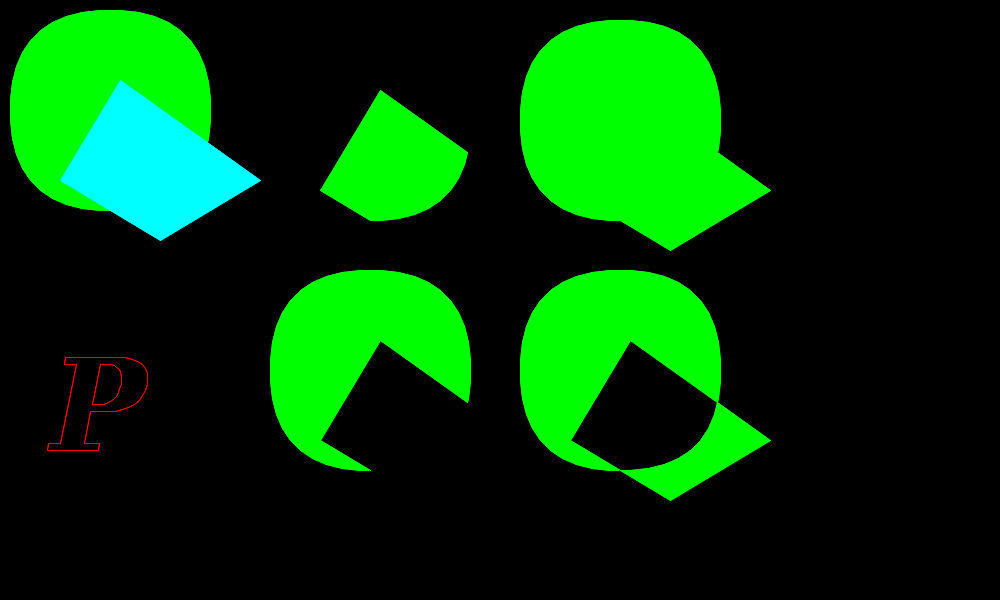
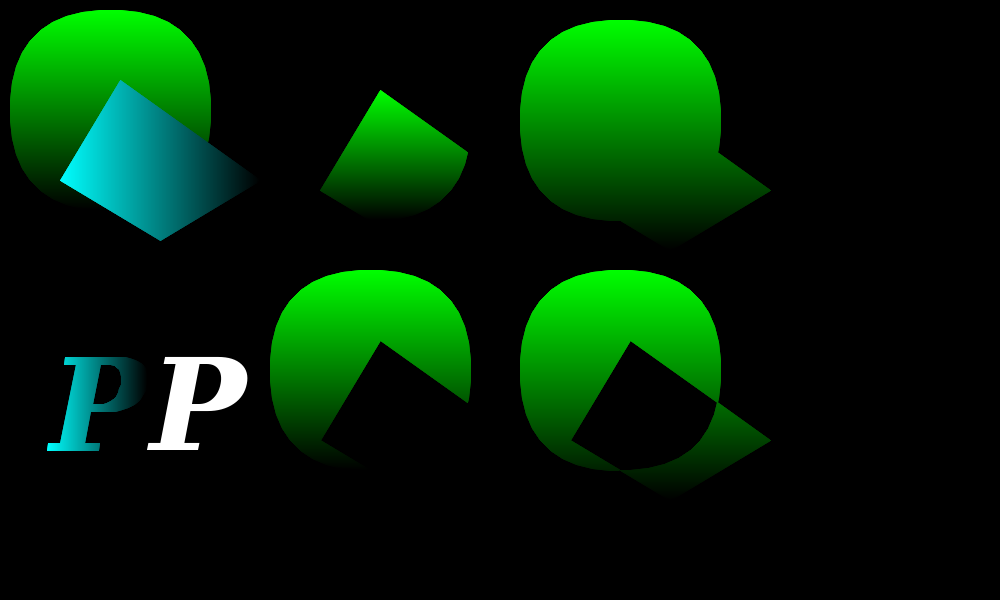
Adding support for character in Gfx::Path - Done

diff --git a/src/Pt-Gfx/tests/ImagePainterTest2_Draw_Path.cpp b/src/Pt-Gfx/tests/ImagePainterTest2_Draw_Path.cpp
@@ -363,7 +363,7 @@ static void testDrawPathClipping(const char* title, Image& image, Painter& paint
     ip2->setBrush(brush1);
     ip2->fillPolygon(clipPointsF.data(), clipPointsF.size());
 
-    // Character outline
+    // Character in path
     row = 4;
     col = 0;
 
@@ -380,14 +380,12 @@ static void testDrawPathClipping(const char* title, Image& image, Painter& paint
     atrans.translate(50 + 100 * col, 50 + 100 * row);
     atrans.transformPoints(subjPointsF.data(), subjPointsF.size());
     atrans.pop();
-
-    ip2->setPen(Color::fromRgb8(255,0,0));
     ip2->setBrush(brush2);
-    ip2->drawPolyline(subjPointsF.data(), subjPointsF.size(), true);
+    ip2->fillPolygon(subjPointsF.data(), subjPointsF.size());
 
-    //ip2->setFont( Pt::Gfx::Font(FONT_SPEC_H) );
-    //ip2->setPen( Color::fromRgb8(0, 255, 255, 255) );
-    //ip2->drawText( PointF(10 + 250 * col, 10 + 250 * row), "P" );
+    ip2->setFont( Pt::Gfx::Font(FONT_SPEC_H) );
+    ip2->setPen( Color::fromRgb8(255, 255, 255, 255) );
+    ip2->drawText( PointF(50 + 100 * col + 100, 50 + 100 * row), "P" );
 
     sdlPreviewRGB888Buffer(title, image.data(), image.width(), image.height(), !!ip2);
 }

diff --git a/src/Pt-Gfx/tests/ImagePainterTest2.cpp b/src/Pt-Gfx/tests/ImagePainterTest2.cpp
@@ -527,12 +527,12 @@ int main(int argc, char* args[])
     // Path clipping
     if((!DO_BENCHMARKING || !BENCHMARK_RESULT_HTML) && DO_TEST_DRAW && TEST_SOURCECOPY && TEST_DRAW_PATH_CLIPPING) {
         painter2->setCompositionMode(CompositionMode::SourceCopy);
-        testDrawPathClipping("Path Clipping - ImagePainter2 [SourceCopy]", image, *painter2, brushSolid1, brushSolid2);
+        testDrawPathClipping("Path Clipping - ImagePainter2 [SourceCopy]", image, *painter2, brushGradient1, brushGradient2);
     }
 
     if((!DO_BENCHMARKING || !BENCHMARK_RESULT_HTML) && DO_TEST_DRAW && TEST_SOURCEOVER && TEST_DRAW_PATH_CLIPPING) {
         painter2->setCompositionMode(CompositionMode::SourceOver);
-        testDrawPathClipping("Path Clipping - ImagePainter2 [SourceOver]", image, *painter2, brushSolid1, brushSolid2);
+        testDrawPathClipping("Path Clipping - ImagePainter2 [SourceOver]", image, *painter2, brushGradient1, brushGradient2);
     }
 
     // Extra features
